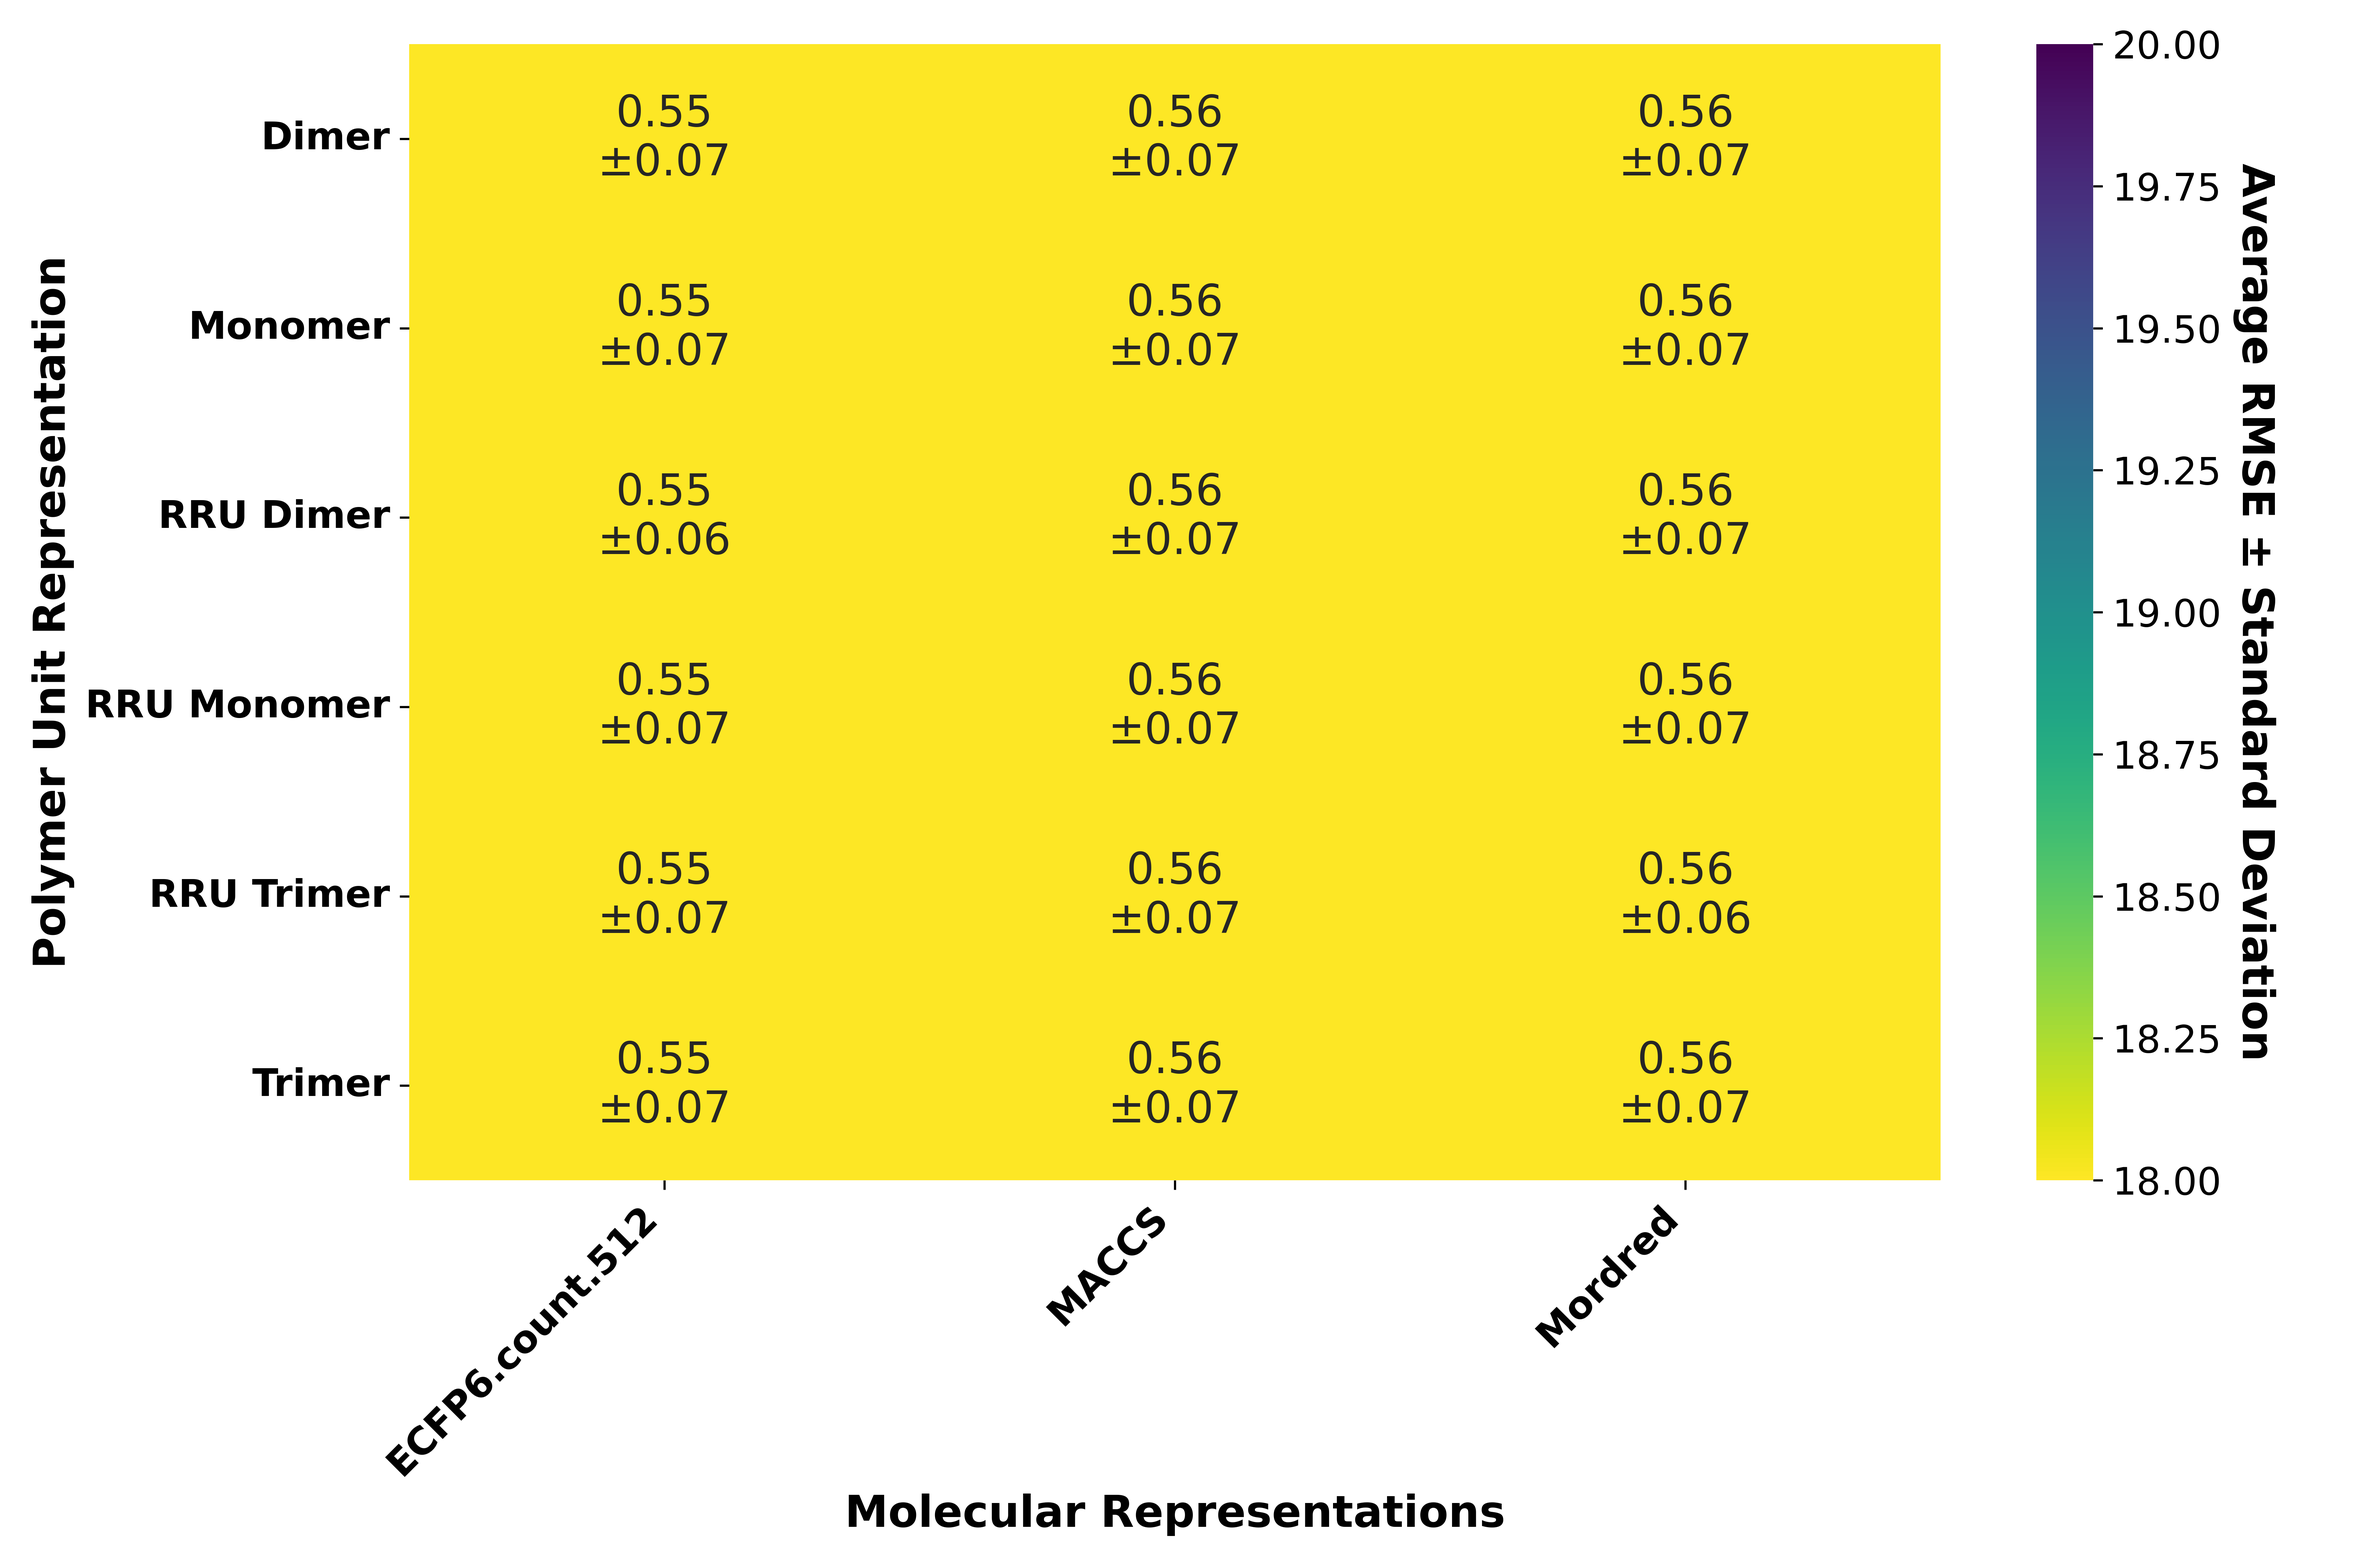
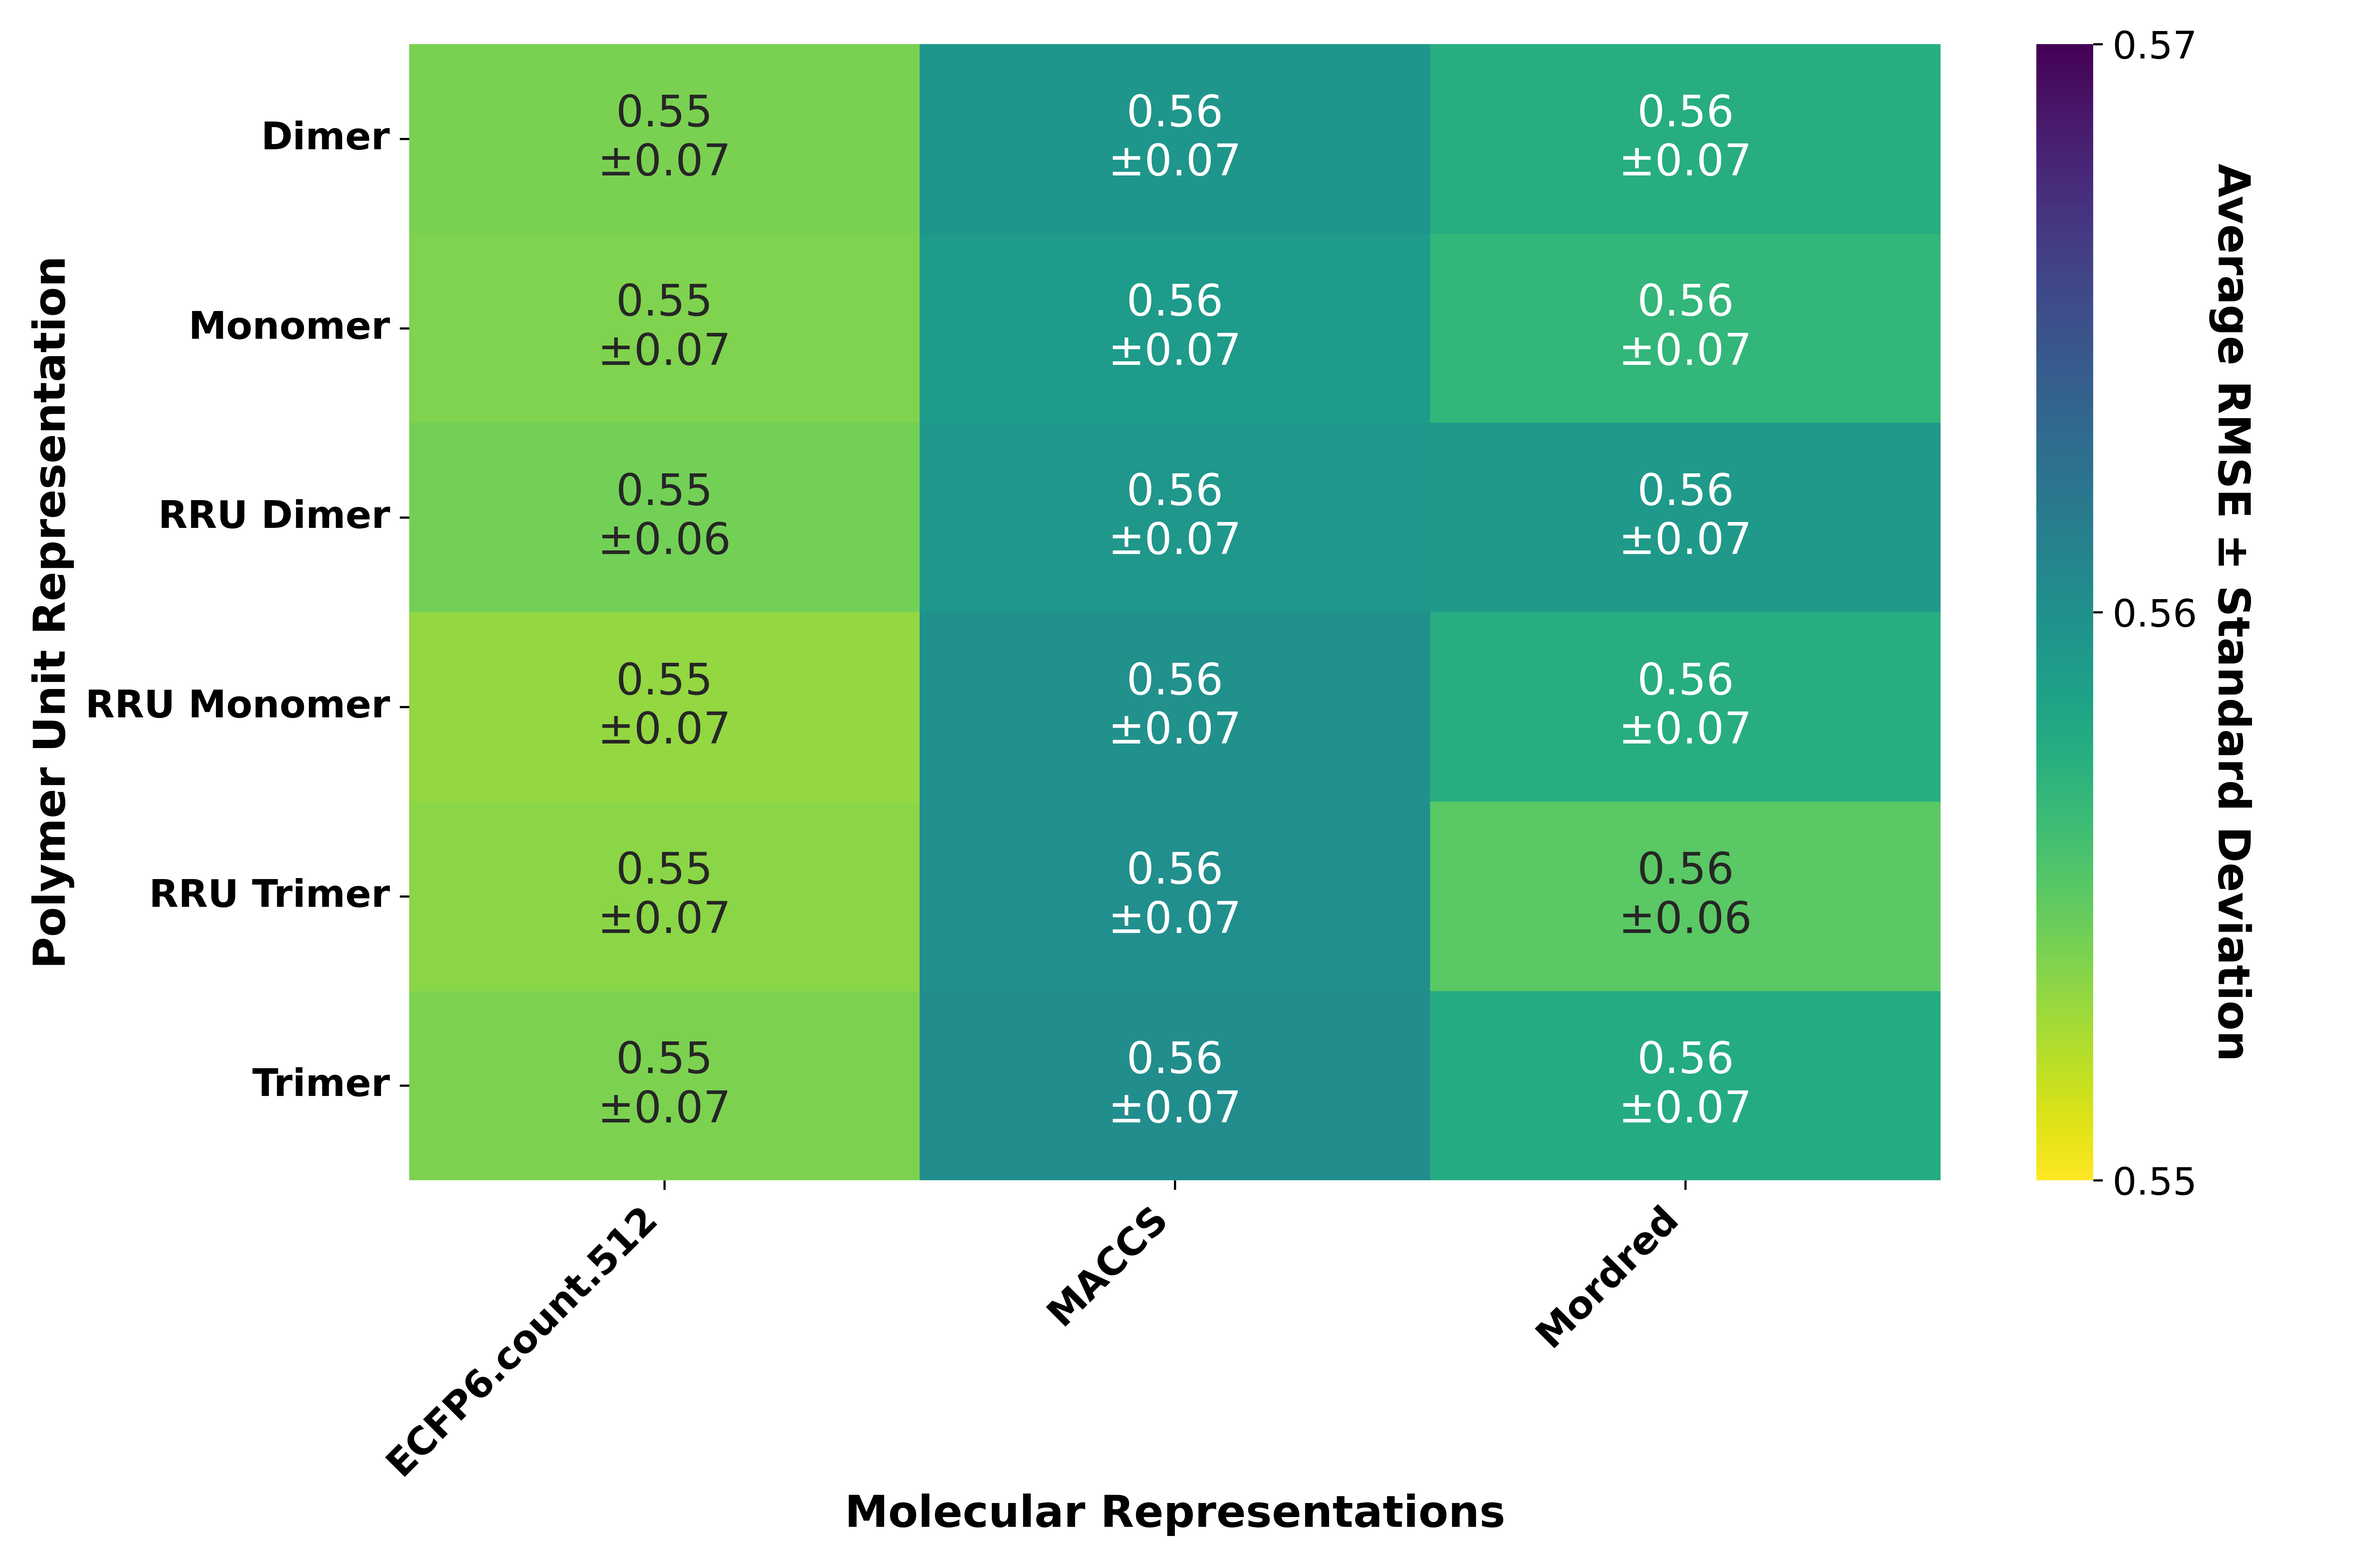
updated

diff --git a/code_/visualization/visualize_heatmap copy.py b/code_/visualization/visualize_heatmap copy.py
@@ -179,11 +179,8 @@ def _create_heatmap(
     root_dir: Path,
     score: str,
     var: str,
-    avg_scores:pd.DataFrame,
-    annotations:pd.DataFrame,
-    # x_labels: list[str],
-    # y_labels: list[str],
-    # parent_dir_labels: list[str],
+    avg_scores: pd.DataFrame,
+    annotations: pd.DataFrame,
     figsize: tuple[int, int],
     fig_title: str,
     x_title: str,
@@ -198,23 +195,23 @@ def _create_heatmap(
         root_dir: Root directory containing all results
         score: Score to plot
         var: Variance to plot
-        x_labels: Labels for x-axis
-        y_labels: Labels for y-axis
+        avg_scores: DataFrame of average scores
+        annotations: DataFrame of annotations (e.g., standard deviations)
         figsize: Figure size
         fig_title: Figure title
         x_title: X-axis title
         y_title: Y-axis title
         fname: Filename to save figure
+        vmin: Minimum value for color scaling
+        vmax: Maximum value for color scaling
     """
 
     # Create heatmap
-
     fig, ax = plt.subplots(figsize=figsize)
     palette: str = "viridis" if score in ["r", "r2"] else "viridis_r"
-    # # palette: str = "cmc.batlow" if score in ["r", "r2"] else "cmc.batlow_r"
-    # palette: str = "cmc.batlow_r" if score in ["r", "r2"] else "cmc.batlow"
     custom_cmap = sns.color_palette(palette, as_cmap=True)
     custom_cmap.set_bad(color="lightgray")
+
     hmap = sns.heatmap(
         avg_scores,
         annot=annotations,
@@ -227,39 +224,51 @@ def _create_heatmap(
         mask=avg_scores.isnull(),
         annot_kws={"fontsize": 16},
     )
-    
+
     # Set axis labels and tick labels
     ax.set_xticks(np.arange(len(avg_scores.columns)) + 0.5)
     ax.set_yticks(np.arange(len(avg_scores.index)) + 0.5)
     x_tick_labels: list[str] = [col for col in avg_scores.columns]
-    # try:  # handles models as y-axis
-    # except:  # handles targets as y-axis
-    #     y_tick_labels: list[str] = [target_abbrev_to_full[x] for x in avg_scores.index]
     y_tick_labels: list[str] = avg_scores.index.to_list()
 
     ax.set_xticklabels(x_tick_labels, rotation=45, ha="right", fontsize=14, fontweight='bold')
     ax.set_yticklabels(y_tick_labels, rotation=0, ha="right", fontsize=14, fontweight='bold')
 
     # Set plot and axis titles
-    plt.title(fig_title,fontsize=18, fontweight='bold')
+    plt.title(fig_title, fontsize=18, fontweight='bold')
     ax.set_xlabel(x_title, fontsize=16, fontweight='bold')
     ax.set_ylabel(y_title, fontsize=16, fontweight='bold')
-    # Set colorbar title
+
+    # Set colorbar title and custom ticks
     score_txt: str = "$R^2$" if score == "r2" else score
     cbar = hmap.collections[0].colorbar
+
+    # Handle vmin/vmax if not set
+    if vmin is None:
+        vmin = np.nanmin(avg_scores.values)
+    if vmax is None:
+        vmax = np.nanmax(avg_scores.values)
+
+    num_ticks = 3  # Change to 3 if you want fewer ticks
+    ticks = np.linspace(vmin, vmax, num_ticks)
+    cbar.set_ticks(ticks)
+
     cbar.set_label(
         f"Average {score_txt.upper()} ± {var_titles[var]}", rotation=270, labelpad=20, 
         fontsize=16, fontweight='bold'
     )
     cbar.ax.tick_params(labelsize=14)
-    visualization_folder_path =  root_dir/"heatmap"
-    os.makedirs(visualization_folder_path, exist_ok=True)    
+
+    # Save the figure
+    visualization_folder_path = root_dir / "heatmap"
+    os.makedirs(visualization_folder_path, exist_ok=True)
     plt.tight_layout()
     plt.savefig(visualization_folder_path / f"{fname}.png", dpi=600)
 
-    # Show the heatmap
-    # plt.show()
+    # Close the plot
+    plt.show()
     plt.close()
+
 
 
 
@@ -393,8 +402,8 @@ def create_structural_result(target_dir:Path,
                     x_title="Molecular Representations",
                     y_title="Polymer Unit Representation",
                     fname=fname,
-                    vmin=18,
-                    vmax=20)
+                    vmin=.55,
+                    vmax=.57)
 
 
 def create_structural_scaler_result(target_dir:Path,
